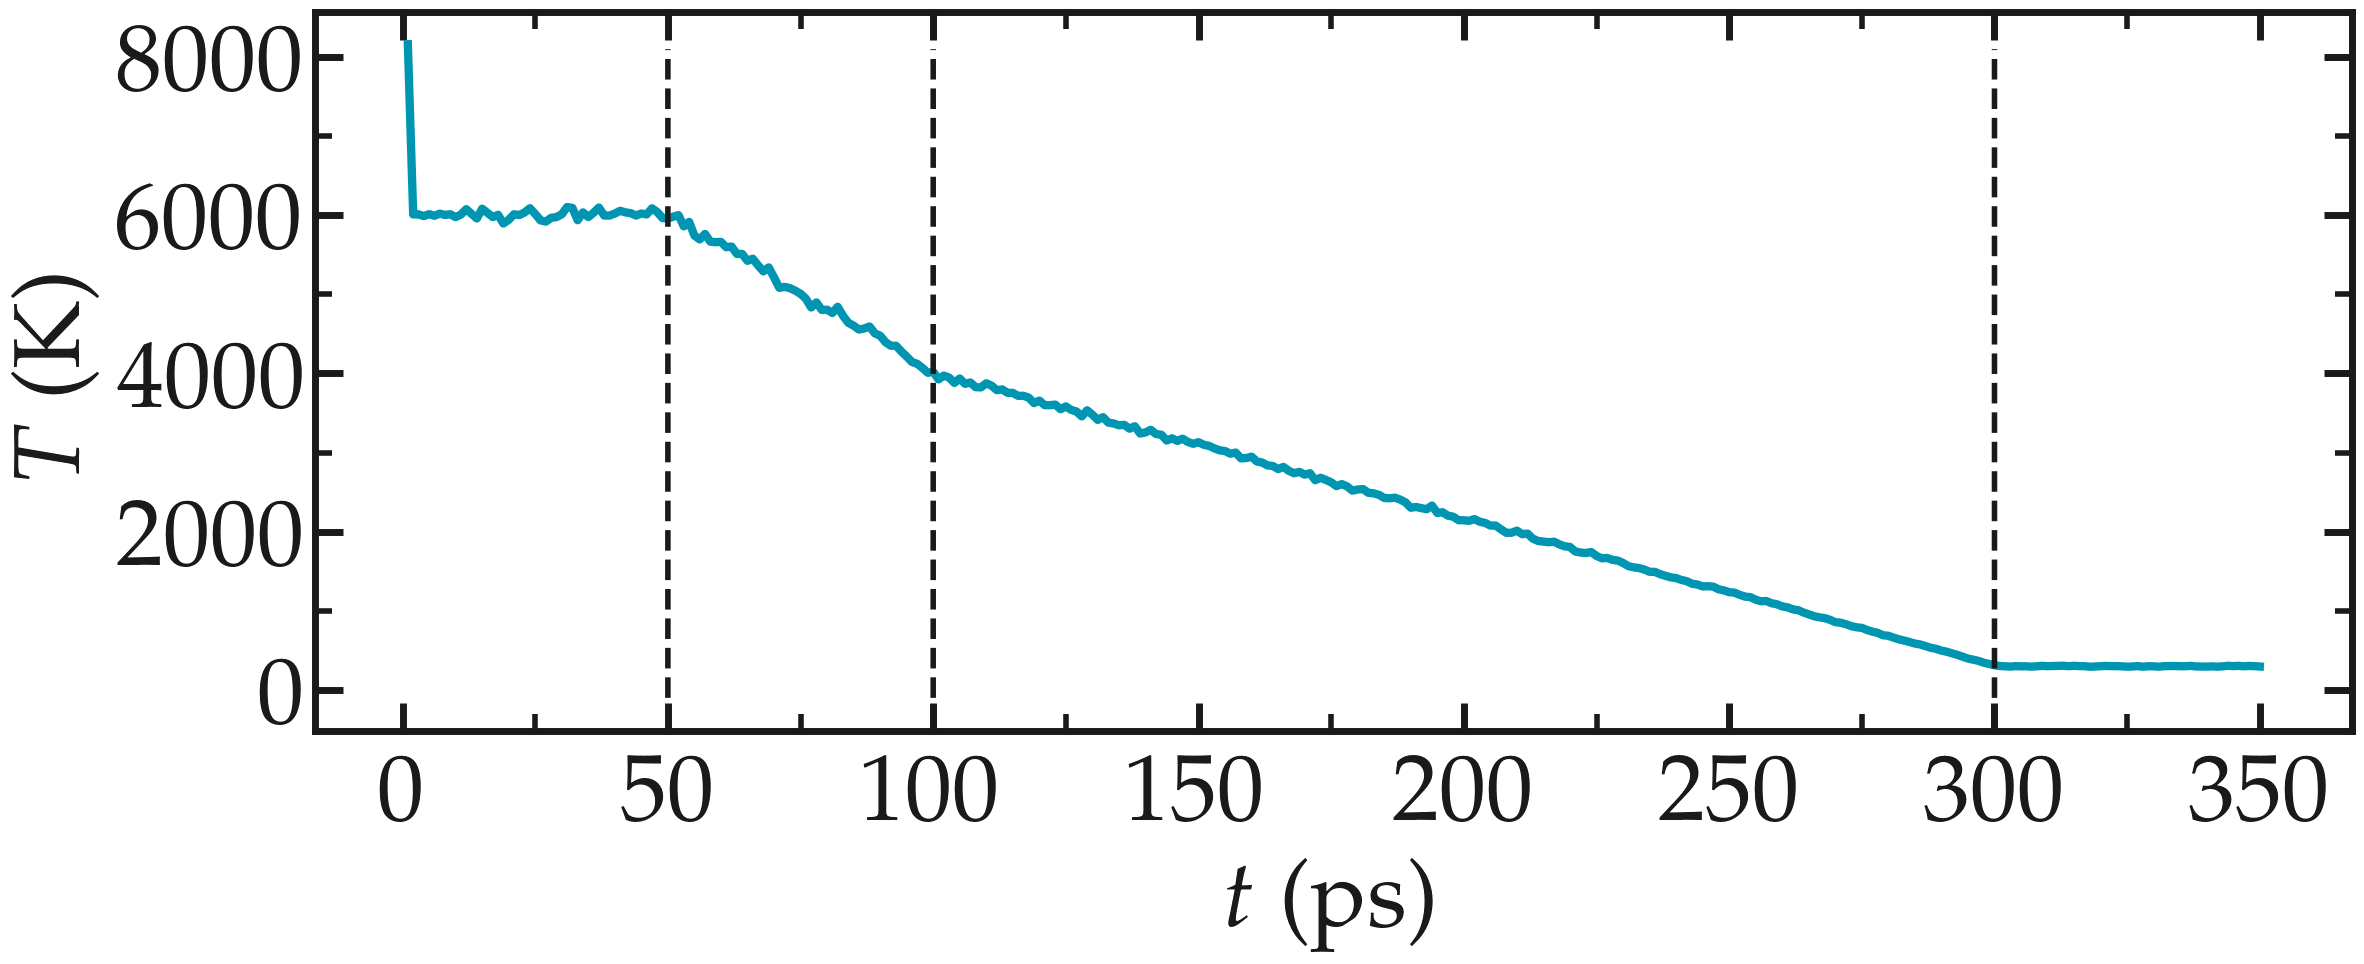
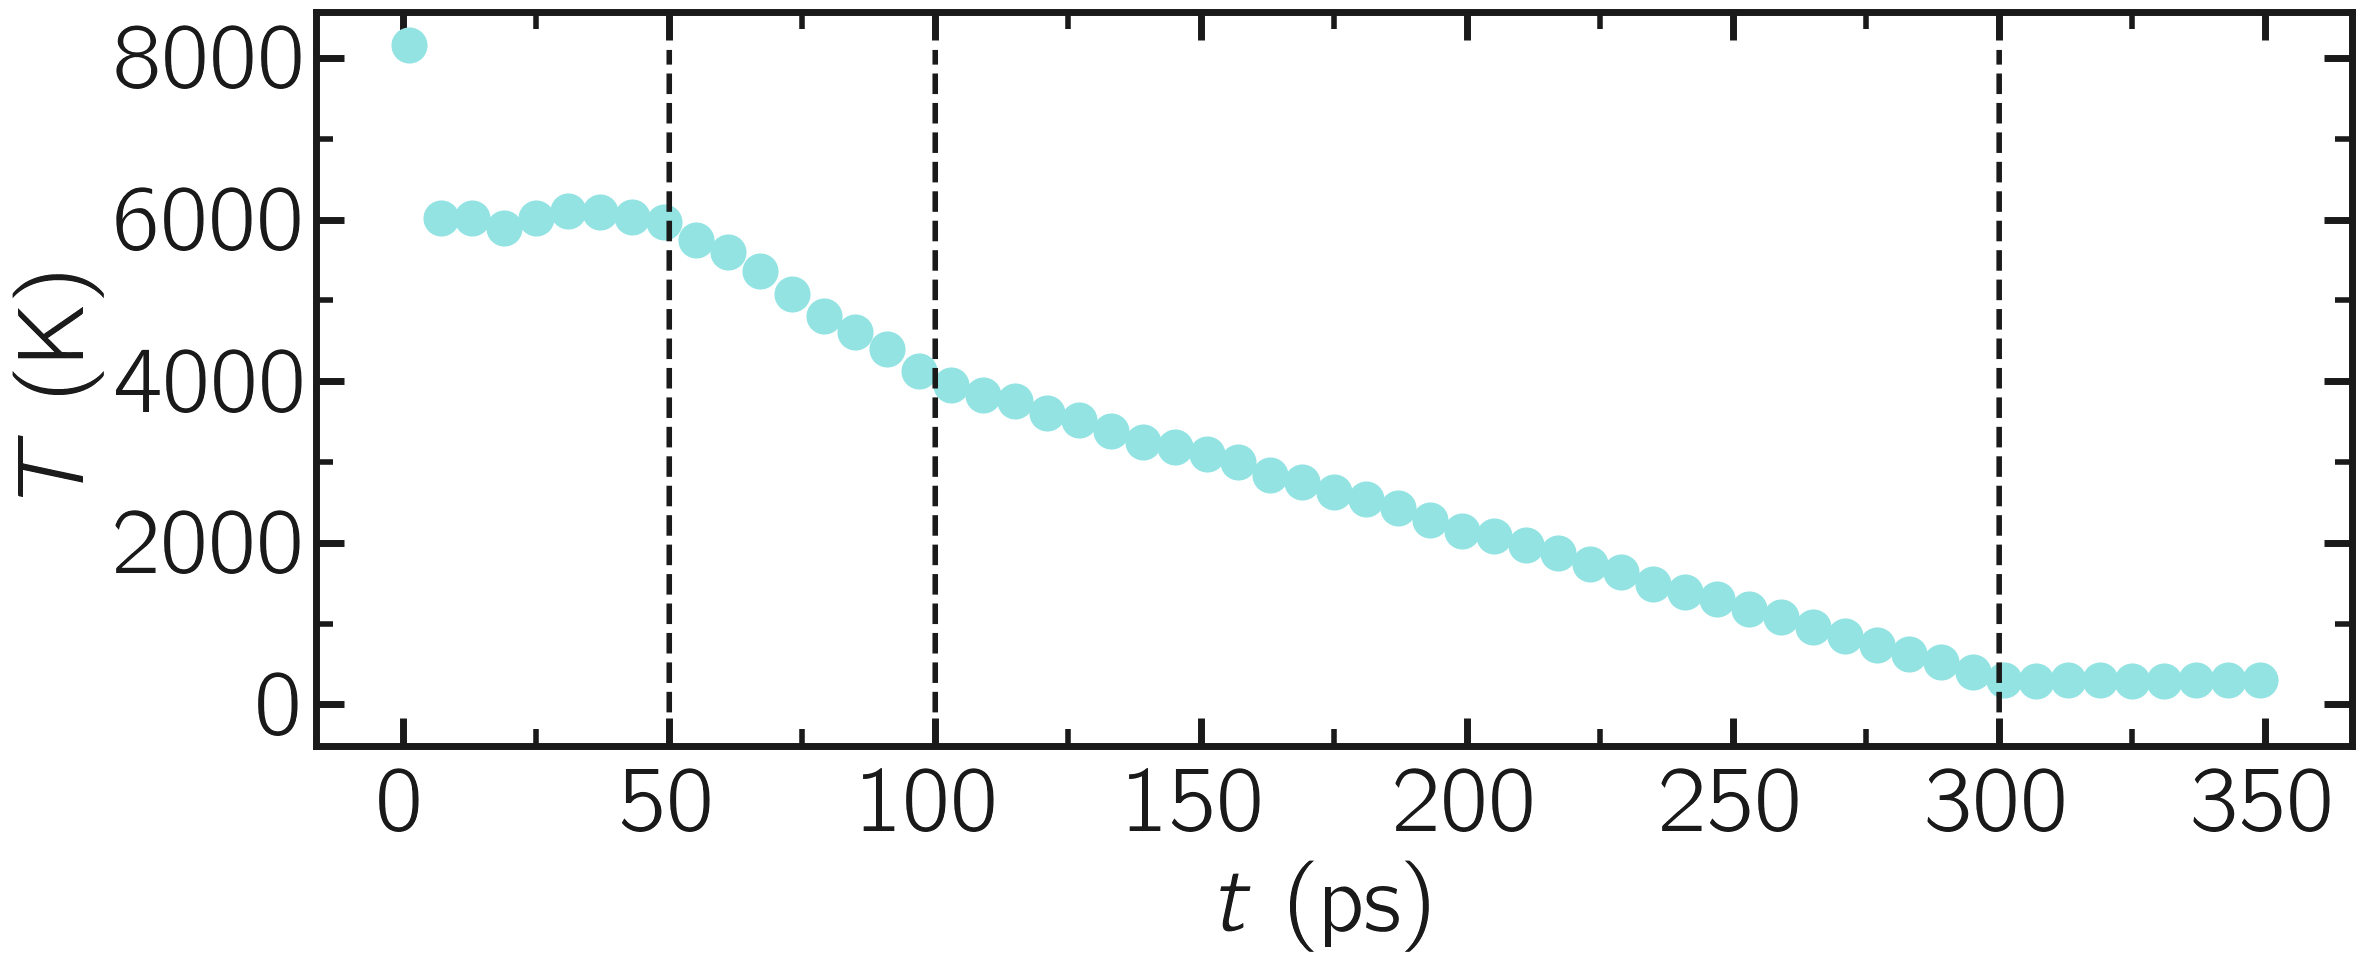
improved figures

diff --git a/lammps-tutorials.tex b/lammps-tutorials.tex
@@ -1742,7 +1742,7 @@ pair_style vashishta
 neighbor 1.0 bin
 neigh_modify delay 1
 \end{verbatim}}
-The main difference with some of the previous tutorials is the use of the \textit{Vashishta} pair style. Download the \textit{Vashishta} potential by clicking \href{https://raw.githubusercontent.com/lammpstutorials/lammpstutorials-article/main/files/tutorial6/SiO.1990.vashishta}{here}, and copy it within the \textit{Potential/} folder. The Vashishta potential is a bond-angle energy-based potential, it deduces the bonds between atoms from their relative positions \cite{vashishta1990interaction}. Let us then import the system made of 9 atoms, and replicate it four times in all three
+The main difference with some of the previous tutorials is the use of the \textit{Vashishta} pair style. Download the \href{https://raw.githubusercontent.com/lammpstutorials/lammpstutorials-article/main/files/tutorial6/SiO.1990.vashishta}{SiO.1990.vashishta}, and copy it within the \textit{Potential/} folder. The Vashishta potential is a bond-angle energy-based potential, it deduces the bonds between atoms from their relative positions \cite{vashishta1990interaction}. Let us then import the system made of 9 atoms, and replicate it four times in all three
 directions of space, thus creating a system with 576 atoms. Add the following lines into \textit{input.lammps}:
 {\normalsize \begin{verbatim}
 read_data SiO.data
@@ -1799,26 +1799,26 @@ write_data amorphousSiO.data
 Here, an isotropic barostat is used for the melted phase at $T = 6000\,\text{K}$, and then an anisotropic barostat is used for all following phases. With the anisotropic barostat, all three directions of space are adjusted independently from one another. Such anisotropic barostat is usually a better choice for a solid phase. For a liquid or a gas, the isotropic barostat is usually the best choice.
 
 The simulation takes about 15-20 minutes on 4 CPU cores. Let us check the evolution of the temperature from the \textit{temperature.dat} file. Apart from an initial spike (which may be due to an initial bad configuration, probably harmless here),
-the temperature follows well the desired annealing procedure  (Fig.\,\ref{fig:GCMC-temperature}). Let us also make sure that the box was indeed deformed isotropically during the first stage of the simulation, and then anisotropically by plotting the evolution of the box dimensions over time (Fig.\,\ref{fig:GCMC-dimension}). After running the simulation, the final LAMMPS topology file named \textit{amorphousSiO.data} will be located in \textit{SilicaBlock/}  (Fig.\,\ref{fig:GCMC-snapshot}).
+the temperature follows well the desired annealing procedure  (Fig.\,\ref{fig:GCMC-temperature}). Let us also make sure that the box was indeed deformed isotropically during the first stage of the simulation, and then anisotropically by plotting the evolution of the box dimensions over time (Fig.\,\ref{fig:GCMC-dimension}). After running the simulation, the final LAMMPS topology file named \textit{amorphousSiO.data} will be located in \textit{SilicaBlock/} (Fig.\,\ref{fig:GCMC-snapshot}).
 
 \begin{figure}
 \centering
 \includegraphics[width=\linewidth]{GCMC-temperature}
-\caption{Temperature of the system during annealing. The vertical dashed lines mark the transition between the different phases of the simulations.}
+\caption{Temperature $T$ of the system during annealing. The vertical dashed lines mark the transition between the different phases of the simulation.}
 \label{fig:GCMC-temperature}
 \end{figure}
 
 \begin{figure}
 \centering
 \includegraphics[width=\linewidth]{GCMC-dimension}
-\caption{Box dimensions during annealing. The vertical dashed lines mark the transition between the different phases of the simulations.}
+\caption{Box dimensions along $x$ (blue), $y$ (orange), and $z$ (dark) during annealing. The vertical dashed lines mark the transition between the different phases of the simulation.}
 \label{fig:GCMC-dimension}
 \end{figure}
 
 \begin{figure}
 \centering
 \includegraphics[width=0.9\linewidth]{GCMC-snapshot}
-\caption{Snapshot of the final amorphous silica ($\text{SiO}_2$) with Si atom in yellow and O atoms in red.}
+\caption{Final amorphous silica ($\text{SiO}_2$). The silicon atoms are represented in yellow, and the oxygen atoms in red.}
 \label{fig:GCMC-snapshot}
 \end{figure}
 
@@ -1858,7 +1858,7 @@ imposes incremental deformations of the box. Different scaling factors or differ
 \begin{figure}
 \centering
 \includegraphics[width=\linewidth]{GCMC-cracked}
-\caption{Block of silica after deformation with Si atom in yellow and O atoms in red. Some holes are visible.}
+\caption{Block of silica after deformation. The silicon atoms are represented in yellow, and the oxygen atoms in red. Some holes are visible.}
 \label{fig:GCMC-cracked}
 \end{figure}
 
@@ -1880,7 +1880,7 @@ bond_style harmonic
 angle_style harmonic
 \end{verbatim}}
 There are several differences with the previous input files used in this tutorial. From now on, the system will combine water and silica, and therefore two force fields are combined: Vashishta for SiO, and lj/cut/tip4p/long for TIP4P water model (here 
-the TIP4P/2005 model is used \cite{abascal2005general}). Combining the two force fields is done using the \textit{hybrid/overlay} pair style. The \textit{kspace} solver is used to calculate the long range Coulomb interactions associated with \textit{tip4p/long}. Finally, the style for the bonds and angles of the water molecules are defined, although they are not important since it is a rigid water model.
+the TIP4P/2005 model is used \cite{abascal2005general}). Combining the two force fields is done using the \textit{hybrid/overlay} pair style. The \textit{kspace} solver is used to calculate the long-range Coulomb interactions associated with \textit{tip4p/long}. Finally, the style for the bonds and angles of the water molecules are defined, although they are not important since it is a rigid water model.
 
 Before going further, we also need to make a few changes to our data file. Currently, \textit{dilatedSiO.data} only includes two atom types, but we need four. Copy the previously generated \textit{dilatedSiO.data} file within \textit{Addingwater/}. Currently, \textit{dilatedSiO.data} starts with:
 {\normalsize \begin{verbatim}
@@ -2025,14 +2025,14 @@ duration was made possible by the use of a large pressure.
 \begin{figure}
 \centering
 \includegraphics[width=\linewidth]{GCMC-number}
-\caption{Number of molecules in the system as a function of the time $t$. The dashed vertical line marks the beginning of the GCMC step.}
+\caption{Number of water molecules $N_\text{H2O}$ as a function of the time $t$. The dashed vertical line marks the beginning of the GCMC step.}
 \label{fig:GCMC-number}
 \end{figure}
 
 \begin{figure}
 \centering
 \includegraphics[width=\linewidth]{GCMC-solvated}
-\caption{Snapshot of the silica system after the adsorption of the water molecules, with the oxygen of the water molecules represented in cyan.}
+\caption{Snapshot of the silica system after the adsorption of water molecules. The oxygen atoms of the water molecules are represented in cyan, the silicon atoms in yellow, and the oxygen atoms of the solid in red.}
 \label{fig:GCMC-solvated}
 \end{figure}
 
@@ -2156,13 +2156,13 @@ This simulation with a total duration of $9\,\text{ns}$ needs a few minutes to c
 \end{figure}
 
 \paragraph{Data analysis}
-First, let us ensure that the initial equilibration of $1\,\text{ns}$ is long enough by examining the \textit{density$\_$evolution.dat} file. Here, we can see that the number of atoms in the central region, $n_\mathrm{centrer}$, evolves near its equilibrium value (which is close to 0) after about $0.1\,\text{ns}$ (Fig.\,\ref{fig:US-density-evolution}). See also a snapshot of the equilibrated system made using VMD in Fig.\,\ref{fig:US-system}. One can also look at the density profile, which shows that the density in the center of the box is about two orders of magnitude lower than inside the reservoir (Fig.\,\ref{fig:US-density}). Then, let us plot $-R T \ln(\rho/\rho_\mathrm{bulk})$ (i.e. Eq.\,\eqref{eq:G} where the pressure ratio $p/p_\mathrm{bulk}$ is replaced by the density ratio $\rho/\rho_\mathrm{bulk}$ assuming the system is an ideal gas) and compare it with the imposed potential $U$ from Eq.\,\eqref{eq:U} (Fig.\,\ref{fig:US-FreeSampling}). The value for the reference density $\rho_\text{bulk} = 0.0033~\text{\AA{}}^{-3}$ was estimated by measuring the density of the reservoir from the raw density profiles. The agreement between the MD results and the imposed energy profile is reasonable, despite some noise in the central part (where fewer data points are available due to the repulsive potential).
+First, let us ensure that the initial equilibration of $1\,\text{ns}$ is long enough by examining the \textit{density$\_$evolution.dat} file. Here, we can see that the number of atoms in the central region, $n_\mathrm{centrer}$, evolves near its equilibrium value (which is close to 0) after about $0.1\,\text{ns}$ (Fig.\,\ref{fig:US-density-evolution}). See also a snapshot of the equilibrated system made using VMD in Fig.\,\ref{fig:US-system-unbiased}. One can also look at the density profile, which shows that the density in the center of the box is about two orders of magnitude lower than inside the reservoir (Fig.\,\ref{fig:US-density}). Then, let us plot $-R T \ln(\rho/\rho_\mathrm{bulk})$ (i.e. Eq.\,\eqref{eq:G} where the pressure ratio $p/p_\mathrm{bulk}$ is replaced by the density ratio $\rho/\rho_\mathrm{bulk}$ assuming the system is an ideal gas) and compare it with the imposed potential $U$ from Eq.\,\eqref{eq:U} (Fig.\,\ref{fig:US-FreeSampling}). The value for the reference density $\rho_\text{bulk} = 0.0033~\text{\AA{}}^{-3}$ was estimated by measuring the density of the reservoir from the raw density profiles. The agreement between the MD results and the imposed energy profile is reasonable, despite some noise in the central part (where fewer data points are available due to the repulsive potential).
 
 \begin{figure}
 \centering
-\includegraphics[width=\linewidth]{US-system}
+\includegraphics[width=\linewidth]{US-system-unbiased}
 \caption{Snapshot of the system. The density of atoms is lowest in the central part of the box, \textit{mymes}, due to the additional force $F$. Here, $U_0 = 0.36~\text{kcal/mol}$, $\delta = 0.5~\mathrm{\AA{}}$, and $x_0 = 5~\mathrm{\AA{}}$.}
-\label{fig:US-system}
+\label{fig:US-system-unbiased}
 \end{figure}
 
 \begin{figure}
@@ -2232,7 +2232,7 @@ reset_timestep 0
 dump mydmp all atom 1000000 dump.lammpstrj
 \end{verbatim}}
 So far, this code resembles that of Method 1, except for the additional particle of type 2. Particles of type 1 and 2 
-are identical, having the same mass and Lennard-Jones parameters. However, the particle of type 2 will additionally be exposed to the biasing potential $V$.
+are identical, having the same mass and Lennard-Jones parameters. However, the particle of type 2 will additionally be exposed to the biasing potential $V$ (Fig.\,){fig:US-system-biased}).
 
 Let us create a loop with 50 steps, and move progressively the center of the bias potential by an increment of 0.1 nm. Add the following lines to \textit{input.lammps}:
 {\normalsize \begin{verbatim}
@@ -2252,6 +2252,13 @@ jump SELF loop
 \end{verbatim}}
 A folder named \textit{data/} needs to be created within \textit{BiasedSampling/}. The spring command serves to impose the additional harmonic potential $V$ with the spring constant $k$. Note that the value of $k$ should be chosen with care, if $k$ is too small, the particle won't follow the biasing potential center, and if $k$ is too large, there will be no overlapping between the different windows. The center of the harmonic potential $x_\text{des}$ successively takes values from -25 to 25. For each value of $x_\text{des}$, an equilibration step of 0.4 ns is performed, followed by a step of 2 ns during which the position along $x$ of the particle is saved in data files (one data file per value of $x_\text{des}$). You can always increase the duration of the runs for better samplings. Run the \textit{input.lammps}  file using LAMMPS.
 
+\begin{figure}
+\centering
+\includegraphics[width=\linewidth]{US-system-biased}
+\caption{Snapshot of the system with atoms of type 1 in cyan and the single atom of type 2 in pink. Only the atom of type 2 explores the central part of the box, \textit{mymes}, due to its additional biasing potential $V$. Here, $U_0 = 2.38~\text{kcal/mol}$, $\delta = 0.5~\mathrm{\AA{}}$, and $x_0 = 5~\mathrm{\AA{}}$.}
+\label{fig:US-system-biased}
+\end{figure}
+    
 \paragraph{WHAM algorithm}
 \noindent To generate the free energy profile from the density distribution, let us use the WHAM algorithm as implemented by Marc Grossfield \cite{grossfieldimplementation}. You can download it from \href{http://membrane.urmc.rochester.edu/?page_id=126}{Alan Grossfield} website, and compile it by typing in the terminal: 
 {\normalsize \begin{verbatim}
